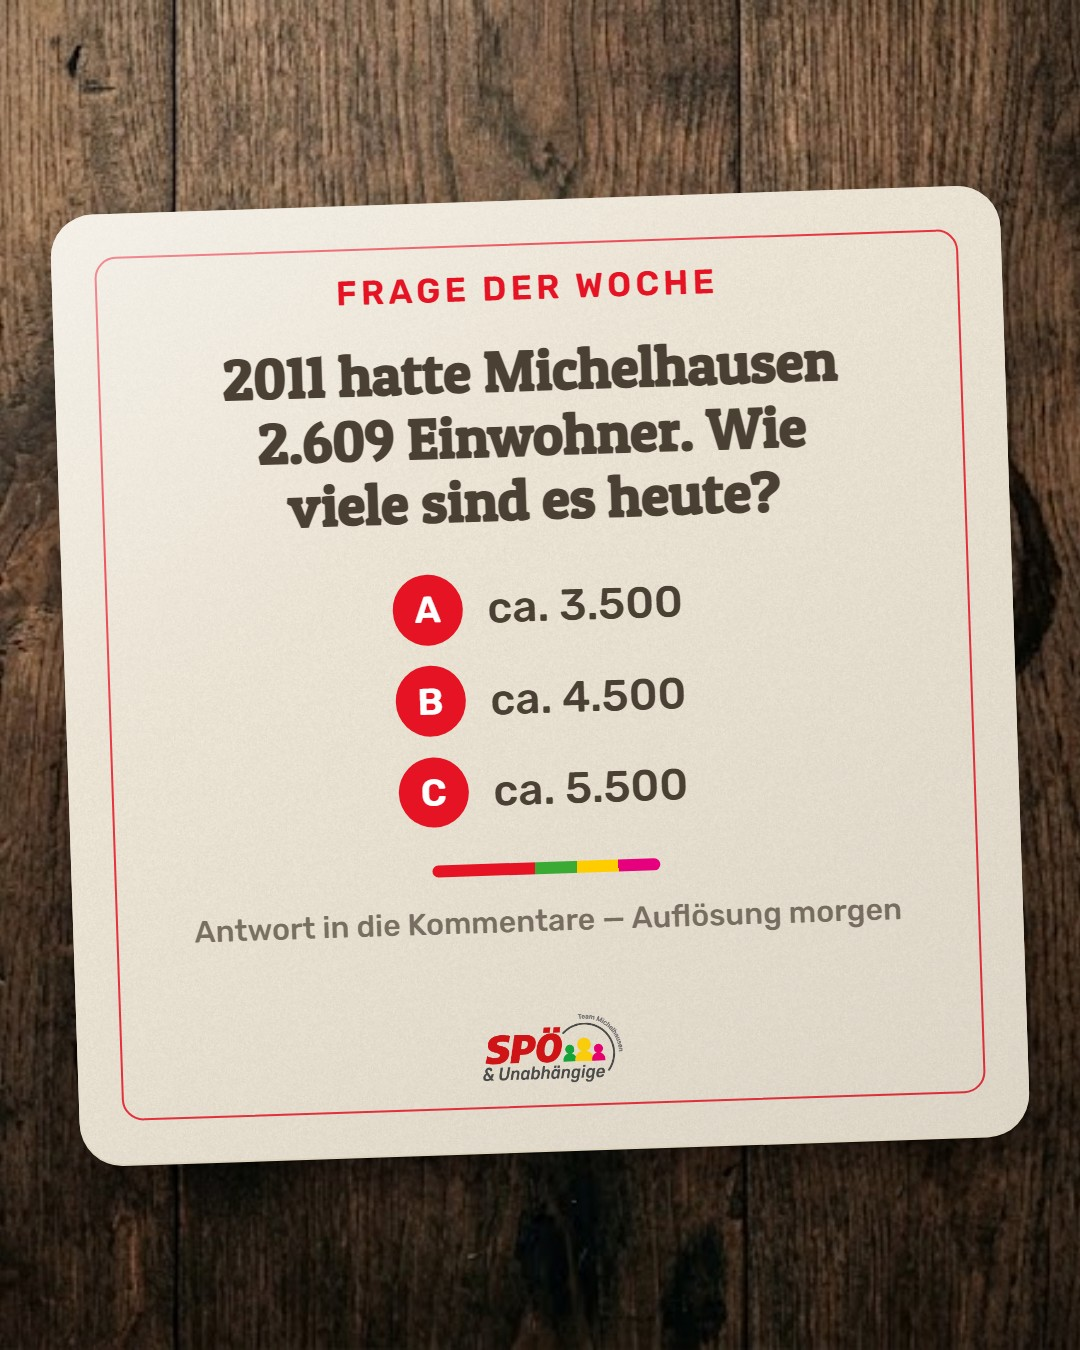
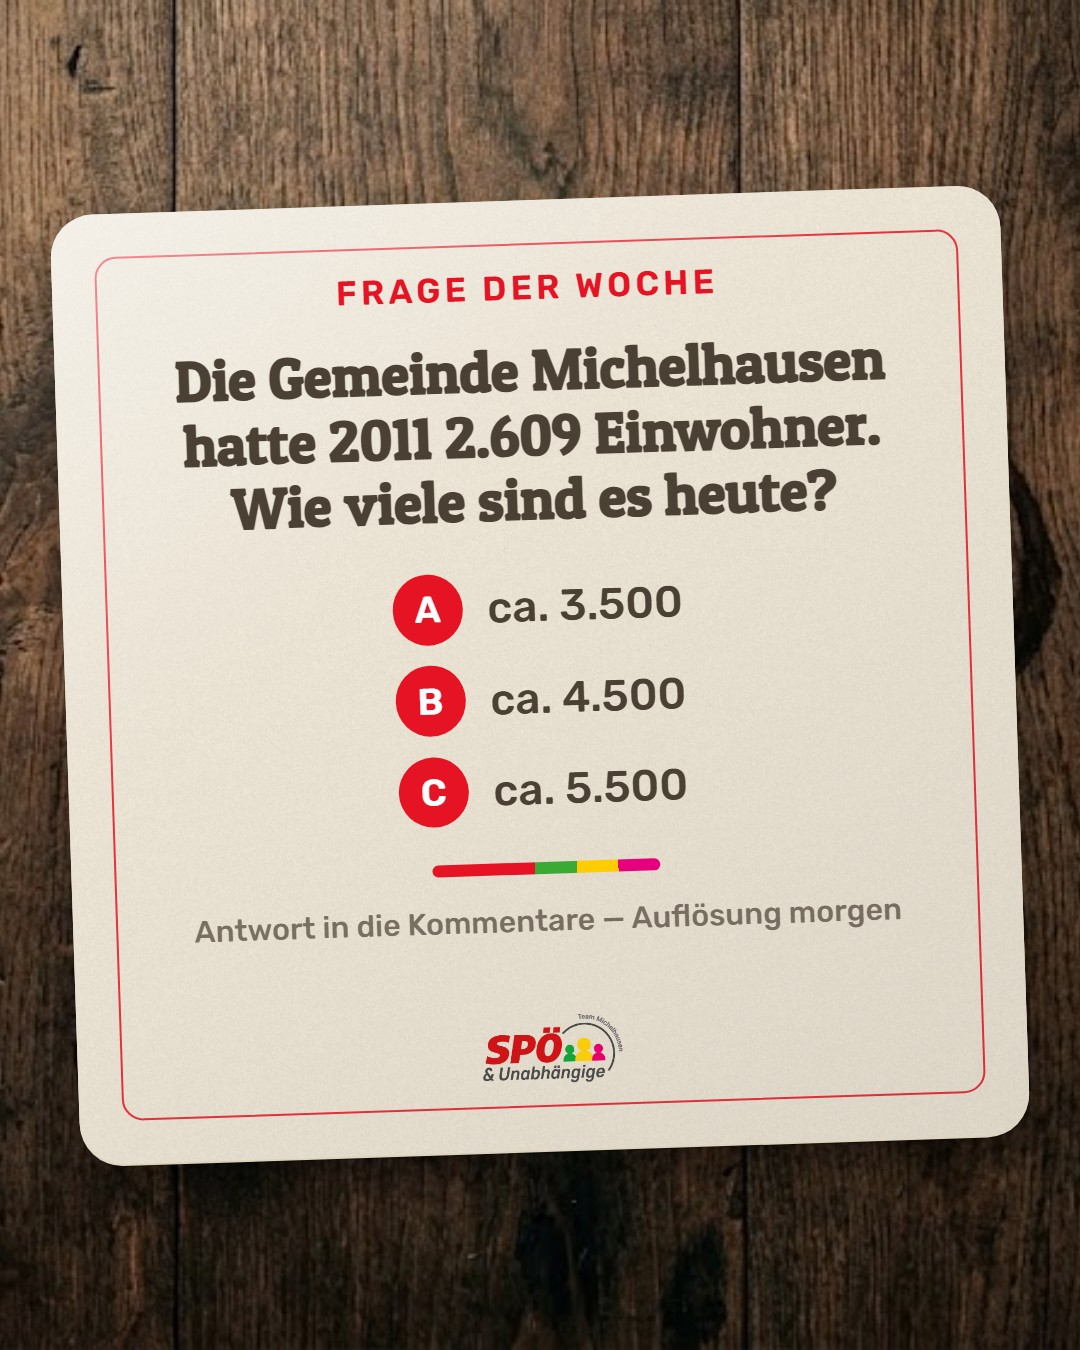
Frage #1: 'Gemeinde Michelhausen' präzisiert

Changed region(s): [[0.1528, 0.2489, 0.825, 0.4044]]

diff --git a/tools/frage.html b/tools/frage.html
@@ -98,7 +98,7 @@
       <div class="keyline"></div>
       <div class="content">
         <p class="kicker" id="kicker">Frage der Woche</p>
-        <h1 class="q" id="q">2011 hatte Michelhausen 2.609 Einwohner. Wie viele sind es heute?</h1>
+        <h1 class="q" id="q">Die Gemeinde Michelhausen hatte 2011 2.609 Einwohner. Wie viele sind es heute?</h1>
         <div class="opts" id="opts">
           <div class="opt"><b>A</b><span>ca. 3.500</span></div>
           <div class="opt"><b>B</b><span>ca. 4.500</span></div>
